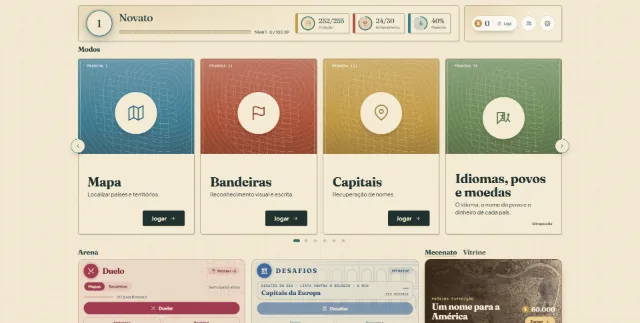
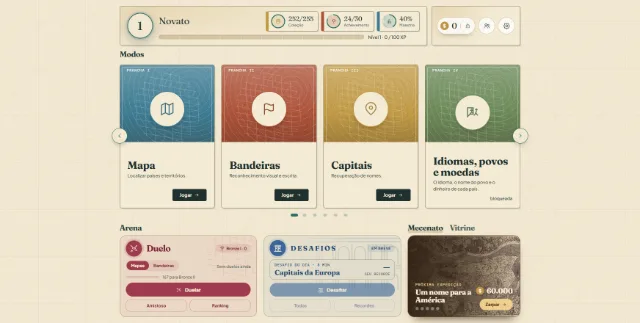
feat(hub): Hub com no máximo 1200 px no desktop, sem rolar, e cabeçalho reorganizado
Cartões voltam ao tamanho do Hub antigo (~265×400); a largura encolhe com a altura da janela.

diff --git a/src/hub.css b/src/hub.css
@@ -447,6 +447,10 @@ html[data-reduced-motion=true] :is(.hx-voyage-ship,.hx-voyage-dot,.hx-museum.is-
      9030efb); o conteúdo é medido em % da largura do cartão (cqw, o slide é o contêiner), então acompanha qualquer largura de janela. O título tem
      sempre a altura de 2 linhas e a descrição ao menos a de 2 (alinhados por baixo), para o ícone ficar na mesma altura em todos os cartões. Em 1503×920
      a página rola uns 90 px (o Enzo escolheu os 4 cartões sabendo disso). */
+  /* a largura do Hub (09/10/2026, pedido do Enzo: "a superfície de tela de antes", sem rolar e com as laterais livres): no máximo 1200 px, o que
+     dá cartões de ~265×400, o tamanho do Hub antigo; em janela mais baixa encolhe com a altura (a página mede ~450 px + 0,38 × a largura), até
+     1000 px; abaixo disso (notebook de 768 px de altura ou menos) rola um pouco */
+  .hx[data-layout=faixa].hub-content{max-width:clamp(1000px,calc((100vh - 450px) * 2.6),1200px)}
   .hx[data-layout=faixa] .hx-car{--peek:0px}
   .hx[data-layout=faixa] .hx-track{grid-auto-columns:calc((100% - 3 * var(--gap)) / 4);padding-inline:0;-webkit-mask-image:none;mask-image:none}
   .hx[data-layout=faixa] .hx-arrow.is-prev{left:-21px}
@@ -485,6 +489,41 @@ html[data-reduced-motion=true] :is(.hx-voyage-ship,.hx-voyage-dot,.hx-museum.is-
   .hx .hx-hstats strong{font-size:19px;line-height:1;white-space:nowrap}
   .hx .hx-hstats small{margin-top:3px;font-size:10.5px;white-space:nowrap}
   .hx .hx-hstats .hub-progress-bar,.hx .hx-hstats button>svg{display:none}
+  /* com o Hub em no máximo 1200 px (09/10) a peça do jogador ficou estreita: a Loja só com o ícone, o título um pouco menor e as fichas mais
+     justas, para o nome e a barra de XP caberem inteiros */
+  .hx[data-progress=cabecalho] .hx-head{gap:12px}
+  .hx[data-progress=cabecalho] .hx-p-wallet{padding-inline:14px}
+  .hx[data-progress=cabecalho] .hx-p-wallet .hub-stats{gap:8px}
+  .hx[data-progress=cabecalho] .hub-coin{padding-right:12px}
+  .hx[data-progress=cabecalho] .hub-coin-store{font-size:0;gap:0}
+  .hx[data-progress=cabecalho] .hub-coin-store svg{width:15px;height:15px}
+  /* a peça do jogador vira uma grade: o anel nas duas linhas, o nome e as fichas em cima, a barra de XP embaixo de tudo (passa por baixo das
+     fichas, então não some quando a peça estreita) */
+  .hx[data-progress=cabecalho] .hx-p-player{display:grid;grid-template-columns:auto minmax(0,1fr) auto;grid-template-areas:"ring head stats" "ring xp xp";align-items:center;column-gap:16px;row-gap:8px;padding-inline:20px}
+  .hx[data-progress=cabecalho] .hx-p-player .hub-player{display:contents}
+  .hx[data-progress=cabecalho] .hx-hstats{grid-area:stats}
+  .hx[data-progress=cabecalho] .hub-title{font-size:26px}
+  .hx[data-layout=faixa] .hx-turns .hx-museum-text b{font-size:20px}
+  .hx[data-progress=cabecalho] .hub-level{width:70px;height:70px}
+  .hx .hx-hstats.hub-progress-grid{gap:8px}
+  .hx .hx-hstats.hub-progress-grid button{gap:0 8px;padding:6px 12px 6px 6px}
+  .hx .hx-hstats .hub-progress-icon{width:30px;height:30px}
+  .hx .hx-hstats .hub-progress-icon>svg:not(.hx-ring){width:15px;height:15px}
+  .hx .hx-hstats strong{font-size:17px}
+  .hx .hx-hstats small{font-size:10px}
+}
+/* janela baixa (o Hub cai para ~1000 px de largura): as medalhas dos títulos saem do cabeçalho, para o nome caber (seguem no Progresso), */
+@media (min-width:1100px) and (max-height:835px){
+  .hx[data-progress=cabecalho] .hub-badges{display:none}
+  /* e as fichas ficam só com o ícone e o número (a legenda segue para o leitor de tela) */
+  .hx .hx-hstats small{position:absolute;width:1px;height:1px;overflow:hidden;clip:rect(0 0 0 0);white-space:nowrap}
+  .hx .hx-hstats.hub-progress-grid{gap:6px}
+  .hx .hx-hstats.hub-progress-grid button{padding:4px 10px 4px 4px}
+  .hx[data-progress=cabecalho] .hx-p-player{column-gap:12px;padding-inline:16px}
+  .hx[data-progress=cabecalho] .hub-level{width:62px;height:62px}
+  .hx[data-progress=cabecalho] .hub-title{font-size:23px}
+}
+@media (min-width:1100px){
   /* P1: a 4ª coluna, com os três números empilhados */
   .hx[data-progress=faixa4] .hx-grid{grid-template-columns:minmax(0,1fr) minmax(0,1fr) minmax(0,.82fr) minmax(0,.66fr)}
   .hx[data-progress=faixa4] .hx-progress{grid-area:2/4/3/5}

diff --git a/src/domain/i18n/es.ts b/src/domain/i18n/es.ts
@@ -122,7 +122,7 @@ export const es: Messages = {
     challengesAria: "Desafíos: listas contra el reloj, muy pronto",
     challengesDaily: "Desafío del día",
     challengesSample: "Capitales de Europa",
-    challengesSampleInfo: "Lista contra el reloj · 8 min",
+    challengesSampleInfo: "8 min",
     challengesRecord: "tu récord",
     challengesAll: "Todos",
     challengesRecords: "Récords",

diff --git a/src/domain/i18n/en.ts b/src/domain/i18n/en.ts
@@ -121,7 +121,7 @@ export const en: Messages = {
     challengesAria: "Challenges: lists against the clock, coming soon",
     challengesDaily: "Daily challenge",
     challengesSample: "Capitals of Europe",
-    challengesSampleInfo: "List against the clock · 8 min",
+    challengesSampleInfo: "8 min",
     challengesRecord: "your best",
     challengesAll: "All",
     challengesRecords: "Records",

diff --git a/src/domain/i18n/pt.ts b/src/domain/i18n/pt.ts
@@ -122,7 +122,7 @@ export const pt = {
     challengesAria: "Desafios: listas contra o relógio, em breve",
     challengesDaily: "Desafio do dia",
     challengesSample: "Capitais da Europa",
-    challengesSampleInfo: "Lista contra o relógio · 8 min",
+    challengesSampleInfo: "8 min",
     challengesRecord: "seu recorde",
     challengesAll: "Todos",
     challengesRecords: "Recordes",

diff --git a/CLAUDE.md b/CLAUDE.md
@@ -59,6 +59,7 @@ O Hub (`screens.tsx`, `hub-parts.tsx`, `hub.css`) foi refeito: **header fino** d
 - **Hub em faixa (08/10/2026, mock `hub-v29` L2, pedido do Enzo; o de coluna guardado para voltar rápido).** No desktop (≥ 1100 px) os modos ocupam a largura toda com o **tamanho de cartão de antes** (283×427 em 1503×920; `grid-auto-columns: clamp(250px,18.8vw,300px)`, altura `clamp(380px,46.4vh,520px)`), então cabem 3 ou 4 na linha; embaixo **Duelo | Desafios | Mecenato · Vitrine** na altura do Duelo e o progresso na largura toda (em 1503×920 a página rola ~180 px). Os **Desafios ganharam a estrutura do Duelo** (`HubChallenges full`): "em breve", o **desafio do dia** como prévia (Capitais da Europa, lista contra o relógio · 8 min, recorde "—") e Desafiar, Todos e Recordes, todos desativados até a tela existir. **Voltar ao de coluna:** `HUB_LAYOUT_DEFAULT = "coluna"` em `hub-parts.tsx`, ou abrir com `?hub=coluna` (fica gravado no navegador em `carta-hub-layout`; `?hub=faixa` volta); o de coluna renderiza igual ao de antes (conferido medindo as caixas) e a tag `hub-coluna-2026-10-08` marca o último commit dele. O CSS da faixa fica no fim do `hub.css` (`.hx[data-layout=faixa]`); o celular e o tablet são os mesmos nos dois (no celular o desafio do dia e os botões extras somem). Verificado: `tsc -b`, `test:i18n`, `test:hub-showcase`, `test:hub-profile`, caixas medidas em 1280×720, 1503×920, 1920×1080 e 390×844, axe 0 (Pigmentos e Noturno no desktop, Pigmentos no celular).
 - **"Seu progresso" no cabeçalho (08/10/2026, mock `hub-v30`, o Enzo gostou do P1 e do P2).** Na faixa o progresso pedia rolagem; agora o `HUB_LAYOUT` diz também onde ele fica (`data-progress` no `.hx`): **`cabecalho` (o padrão, P2)**: os 3 números viram fichas na peça do jogador (`.hx-hstats`, legendas curtas: Coleção, Achievements, Maestria), no lugar de "partidas · rodadas" (que segue no Progresso); **`faixa4` (P1)**: a 4ª coluna da faixa, com os 3 números empilhados; `faixa`: a linha embaixo (rola); `coluna`: o de antes. Trocar com `?hub=<valor>` (gravado em `carta-hub-layout`) ou no padrão do `hub-parts.tsx`. As fichas usam as classes dos tiles (`hub-progress-grid`, `data-tile`), então cada tema as pinta como os tiles; só aparecem a partir de 1100 px (abaixo a linha do progresso volta, e o celular segue sem ela). Os rótulos de seção da faixa ficaram mais juntos: P1 e P2 cabem em 1503×920 e 1920×1080 sem rolar, com os cartões de modo no tamanho de antes (em 1280×720 ainda rola ~150 px). Verificado: `tsc -b`, os mesmos testes, caixas medidas nos quatro valores e axe 0 (P2 em Pigmentos, Noturno, Cartógrafo, Atlas e Prata; P1 em Pigmentos e Noturno; celular).
 - **Cartões de modo na proporção do Hub antigo e tema Papel (09/10/2026, mocks `hub-v31` a `hub-v33`, S1 escolhido pelo Enzo a partir de um print do Hub de 20–24/09, commits `2003492`–`9030efb`).** No desktop com o Hub em faixa: **4 cartões preenchendo a linha**, sem os vizinhos espiando, na proporção do print (264×398; 341×514 em 1503 de largura). O conteúdo do cartão é medido em **% da largura do cartão** (`cqw`, o `.hx-slide` é o contêiner: margem 8%, círculo do ícone 36%, glifo 16%, título 11%, descrição 4,6%), então acompanha qualquer janela; o **título tem altura fixa de 2 linhas** e a descrição ao menos 2, alinhados por baixo, para o **ícone ficar na mesma altura em todos os cartões** (pedido dele; um título de 3 linhas, como "Languages, peoples & currencies", sobe para cima da caixa sem mexer no ícone); os tamanhos levam `!important` porque vários temas fixam ícone e título em px. **"Jogar" de volta** no rodapé, à direita (`.family-play`, só visual: o cartão inteiro continua sendo o botão; só no desktop em faixa). Em 1503×920 a página rola ~90 px (cabe em 1920×1080). **Tema Papel** (`papel`, o novo padrão, grátis): a paleta base do Hub antigo, sem tratamento (`treat: "base"` → o raiz fica **sem `data-treat`**, `applyThemeAttributes` em `themes.ts`, usado no `main.tsx` e no `app.tsx`): cartões creme iguais entre si, ícone em círculo claro com traço verde; fora do Hub (Mesa, Loja) usa as cores do Pigmentos. O **Pigmentos continua grátis** em Opções e na Loja; quem estava nele passou **uma vez** para o Papel (`migrateDefaultTheme`, marca `carta-theme-papel` no localStorage; quem voltar a escolher o Pigmentos fica nele). As prévias da Loja foram refeitas (o `build-theme-previews.mjs` agora mede o fim do Hub pela peça mais baixa à vista). Verificado: `tsc -b`, `test:themes` (Papel padrão, Pigmentos grátis, a troca única), `test:i18n`, `test:hub-showcase`, `test:hub-profile`, `test:store-catalog`, `test:economy`, `test:policies`; o ícone na mesma altura nos 6 cartões em 1100, 1280, 1503 e 1920 px, em pt/en/es e nos temas Papel, Pigmentos, Noturno, Cartógrafo, Atlas, Prata e Ateliê, nenhum texto passando da borda, axe 0 (inclui o celular e o tablet, que não mudaram); `audit-theme.mjs papel hub,duelo,config,loja` com 0 violações.
+- **Hub de volta à largura de antes, sem rolar (09/10/2026, pedido do Enzo: "a superfície de tela de antes", laterais livres).** No desktop em faixa o `.hub-content` tem no máximo **1200 px** (`clamp(1000px, (100vh − 450px) × 2,6, 1200px)`: a página mede ~450 px + 0,38 × a largura), o que dá cartões de ~265×400, o tamanho do Hub antigo. Cabe sem rolar em 1503×920, 1440×900 e 1920×1080 (laterais de 150 a 360 px); em janela de 768 px de altura ou menos o Hub fica em 1000 px e rola uns 50 px. Para o cabeçalho caber: a peça do jogador vira uma grade (anel nas duas linhas, nome e fichas do progresso em cima, a barra de XP embaixo de tudo), a Loja da carteira fica só com o ícone, o nome em 26 px e as fichas mais justas; em janela baixa (`max-height: 835px`) as medalhas dos títulos saem e as fichas ficam só com ícone e número. A linha do desafio do dia ficou "Desafio do dia · 8 min". Verificado: ícone na mesma altura e nenhum texto cortado de 1100 a 1920 px e nos 7 temas, axe 0, `test:themes`, `test:i18n`, `test:hub-showcase`, `test:hub-profile`; prévias da Loja refeitas.
 - **Rodada de ajustes do Hub (04/10/2026, pedidos do Enzo com print do iPhone):**
   - **Cartão de modo sem botão:** o cartão inteiro abre a Mesa (o "Jogar" repetia em todos); ao passar o mouse ele levanta de leve.
   - **Memória do carrossel:** voltar de outra tela abre o Hub no mesmo modo (`carouselMemory` em `hub-parts.tsx`, vale até recarregar a página).
